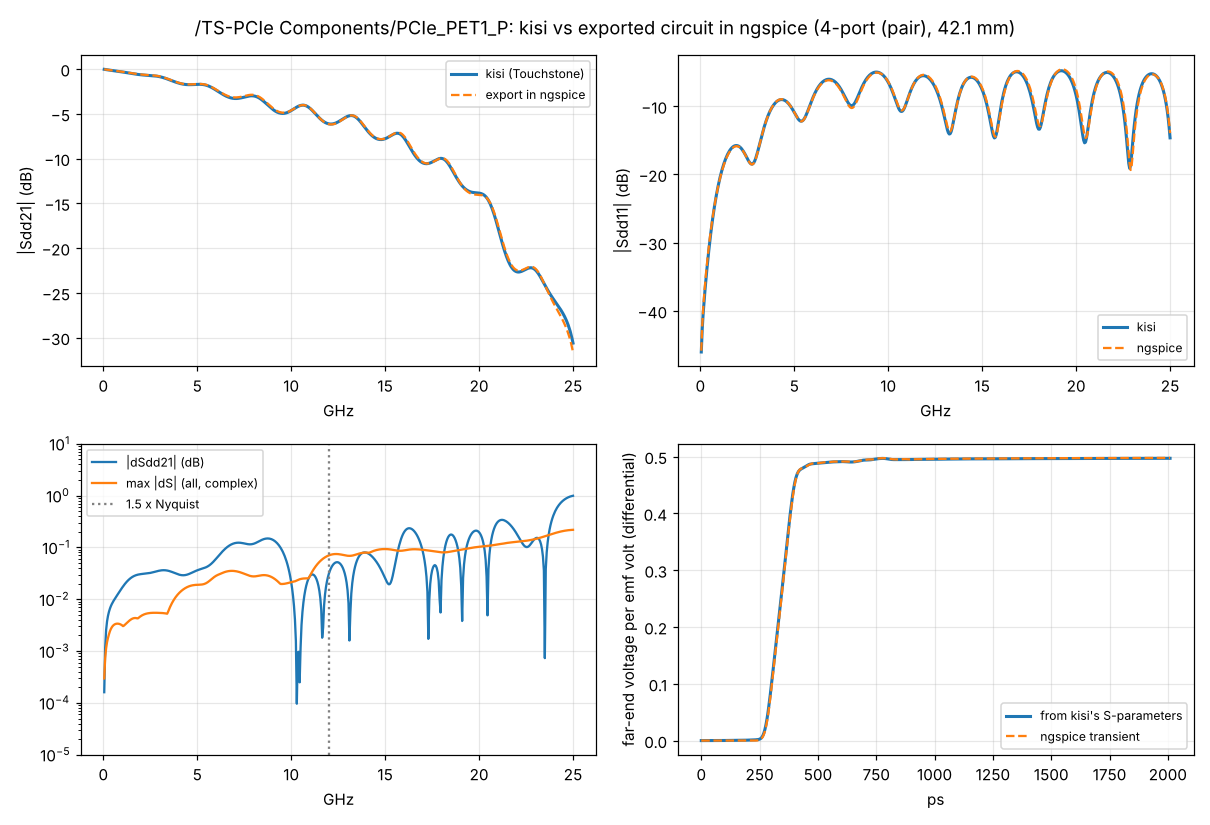
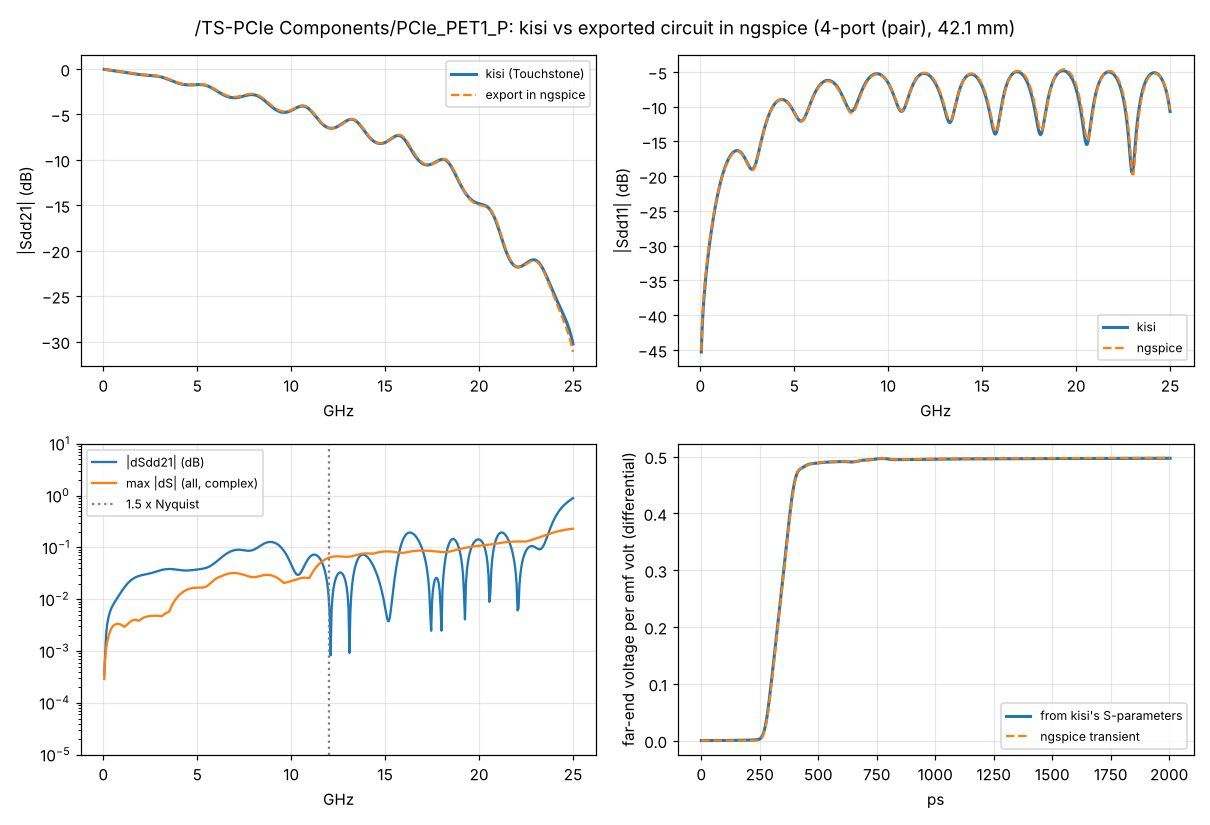
LTspice library: Rpar=1e30 on every inductor; comparison table refreshed
LTspice adds a series resistance (1 mOhm) and an implicit parallel
damping to inductors by default; the micro-tests on the maintainer's
LTspice showed the damping as the cause of the LVDS pair's 1 % lower
levels during the reflections (with Rpar=1e30 LTspice follows ngspice
within 0.16 mV). The LTspice library and the bench's inductors now carry
Rser=0 Rpar=1e30; ltspice.py check requires both; README, models and the
report say why. The micro-test decks save the traces their .meas lines
read (I(VTX_p) and the internal nodes) and drop the Rpar variants.

The comparison table and plots in the report are re-run on the merged
code (main's via-model changes): PCIe in-band |dS21| 0.10-0.34 dB,
max |dS| <= 0.064, steps within 1.9 %; every lane's Touchstone file and
the bus N-port are now passive.

diff --git a/validation/channel_export/ltspice_microtests.py b/validation/channel_export/ltspice_microtests.py
@@ -11,13 +11,10 @@ single step at 4 ns (P up, N down, the bench's emf and edge):
   3_viapair.cir      the ends and the lane's first via pair block
   4_line_p.cir       the ends and one line section on P (N joined ideally)
   5_lane.cir         the ends and the whole lane, with internal node voltages and the source currents
-  5b_lane_rpar.cir   as 5, with Rpar=1e30 on every inductor (LTspice only: shows whether LTspice's default
-                     inductor damping, added when no Rpar is given, is the difference)
-  5c_lane_trap.cir   as 5 with .options method=trap (LTspice's default integration is modified trapezoidal;
-                     ngspice uses trapezoidal)
-  5d_lane_rpar_trap.cir  both
-The pair's levels a few nanoseconds after an edge carry the reflections between the current-mode transmitter
-(5 kOhm, nearly open) and the receiver; extra damping in the simulator lowers them.
+  5c_lane_trap.cir   as 5 with .options method=trap (LTspice's default integration is modified trapezoidal,
+                     ngspice's trapezoidal)
+These decks found the 1 % offset of the LVDS pair in LTspice: LTspice's implicit parallel damping of inductors
+(now switched off with Rpar=1e30 in the LTspice library); the integration method made 0.2 mV.
 Each measures the received differential voltage V(vrx) before the step (the DC operating point, at 3 ns) and at
 4.5–20 ns, the transmitter's current, and in 5 a few internal nodes. ngspice runs the same decks (the shared
 library, the LTspice-only options left out, `xlane:n4` written `xlane.n4`); expected.json holds its values.
@@ -49,9 +46,6 @@ def main():
     lib_lt = open(os.path.join(src, f"{st}_ltspice.lib"), encoding="ascii").read()
     shutil.copy(os.path.join(src, f"{st}_ltspice.lib"), out)
     shutil.copy(os.path.join(src, f"{st}.lib"), out)
-    # the variant with Rpar=1e30 on every inductor
-    rpar = "\n".join(l + " Rpar=1e30" if l.startswith("L") else l for l in lib_lt.splitlines()) + "\n"
-    open(os.path.join(out, f"{st}_ltspice_rpar.lib"), "w").write(rpar)
     # the ends and the emf from the bench
     emf = abs(float(re.search(r"^VTX_p \S+ 0 PWL\(\S+ (\S+)", "\n".join(bench), re.M).group(1)))
     rise = float(re.search(r"edge (\S+) ps", "\n".join(bench)).group(1)) * 1e-12
@@ -72,17 +66,15 @@ def main():
         "3_viapair": [f"XB ap an bp bn 0 {vp}"],
         "4_line_p": [f"XB ap bp 0 {tl_p}", "VC_n an bn 0"],
         "5_lane": [lane],
-        "5b_lane_rpar": [lane],
         "5c_lane_trap": [lane],
-        "5d_lane_rpar_trap": [lane],
     }
     internal = ["n4", "n7", "n27", "n29"]
     results = {}
     for name, d in dut.items():
-        lib = f"{st}_ltspice_rpar.lib" if "rpar" in name else f"{st}_ltspice.lib"
+        lib = f"{st}_ltspice.lib"
         opts = ".options plotwinsize=0 numdgt=16 reject_number_tails" + (" method=trap" if "trap" in name else "")
         txt = [f"* kisi LTspice micro-test {name} of lane {st}: the bench's ends, {' '.join(x.split()[-1] for x in d if x.startswith('X')) or 'ideal connections'}",
-               f'.include "{lib}"'] + srcs + ends + d + ["Bvrx vrx 0 V=V(rxd_p)-V(rxd_n)", ".tran 1e-11 2e-8 0 1e-11", ".save V(vrx)", opts]
+               f'.include "{lib}"'] + srcs + ends + d + ["Bvrx vrx 0 V=V(rxd_p)-V(rxd_n)", ".tran 1e-11 2e-8 0 1e-11", ".save V(vrx) I(VTX_p)" + ("".join(f" V(xlane:{n})" for n in internal) + " V(rxd_p) V(rxd_n)" if name.startswith("5") else ""), opts]
         for k, t in TIMES:
             txt.append(f".meas TRAN v_{k} FIND V(vrx) AT={t:.6e}")
         txt += [f".meas TRAN i_tx_dc FIND I(VTX_p) AT={TIMES[0][1]:.6e}", f".meas TRAN i_tx_t20 FIND I(VTX_p) AT={TIMES[-1][1]:.6e}"]
@@ -93,8 +85,8 @@ def main():
             txt += [f".meas TRAN v_rxp_dc FIND V(rxd_p) AT={TIMES[0][1]:.6e}", f".meas TRAN v_rxn_dc FIND V(rxd_n) AT={TIMES[0][1]:.6e}"]
         txt.append(".end")
         open(os.path.join(out, f"{name}.cir"), "w").write("\n".join(txt) + "\n")
-        if name[1:2] in "bcd" and name[0] == "5":
-            continue  # LTspice-only variants; ngspice's values are those of 5
+        if name == "5c_lane_trap":
+            continue  # LTspice-only variant; ngspice's values are those of 5
         # ngspice: the shared library, no LTspice options, subcircuit paths with '.'
         ng = [l for l in txt if not l.startswith(".options")]
         ng = [l.replace(lib, f"{st}.lib") for l in ng]
@@ -108,11 +100,10 @@ def main():
         os.remove(p)
         print(name, "ok" if r.returncode == 0 else "FAILED", {k: v for k, v in results[name].items() if k in ("v_dc", "v_t20")})
     info = {"lane": st, "emf_v": emf, "edge_s": rise, "blocks": {"coupled": cpl, "viapair": vp, "line_p": tl_p},
-            "simulator": "ngspice 42 (the same decks with the shared library; for 5b-5d the values of 5: ngspice adds no inductor damping and integrates trapezoidally)",
+            "simulator": "ngspice 42 (the same decks with the shared library; for 5c the values of 5: ngspice integrates trapezoidally)",
             "units": "V and A; v_* the received differential voltage V(vrx), v_dc before the step (operating point), i_tx_* the current of VTX_p",
             "expected": results}
-    for k in ("5b_lane_rpar", "5c_lane_trap", "5d_lane_rpar_trap"):
-        results[k] = results.get("5_lane")
+    results["5c_lane_trap"] = results.get("5_lane")
     json.dump(info, open(os.path.join(out, "expected.json"), "w"), indent=1)
 
 

diff --git a/crates/kisi-si/src/export/files.rs b/crates/kisi-si/src/export/files.rs
@@ -238,7 +238,7 @@ pub fn bench(lc: &LaneCircuit, lib_file: &str, ends: &BenchEnds, d: Dialect) -> 
         let (mut r, die) = rx_end(k, pb, &ends.rx);
         if d == Dialect::Ltspice {
             for l in t.iter_mut().chain(r.iter_mut()).filter(|l| l.starts_with('L')) {
-                l.push_str(" Rser=0");
+                l.push_str(LT_L);
             }
         }
         s.push_str(&format!("* line {k}: transmitter\n{}\n* line {k}: receiver\n{}\n", t.join("\n"), r.join("\n")));
@@ -290,17 +290,20 @@ pub fn ltspice_meas(lc: &LaneCircuit, ends: &BenchEnds) -> Vec<(String, String)>
     v
 }
 
-/// The lane library for LTspice: the same circuit, with `Rser=0` on every inductor (LTspice gives an
-/// inductor 1 mΩ in series unless told otherwise; ngspice and Xyce do not accept the parameter) and
+/// What every inductor gets in LTspice: LTspice adds a series resistance (1 mΩ) and an implicit
+/// parallel damping to inductors by default; ngspice and Xyce reject these parameters.
+pub const LT_L: &str = " Rser=0 Rpar=1e30";
+
+/// The lane library for LTspice: the same circuit, with `Rser=0 Rpar=1e30` on every inductor and
 /// ASCII comments.
 pub fn ltspice_lib(lib: &str) -> String {
-    let mut s = String::with_capacity(lib.len() + lib.len() / 8);
-    s.push_str("* LTspice version of the lane library: the same circuit as the .lib next to it, with Rser=0 on every inductor\n* (LTspice would add 1 mOhm in series to each)\n");
+    let mut s = String::with_capacity(lib.len() + lib.len() / 6);
+    s.push_str("* LTspice version of the lane library: the same circuit as the .lib next to it, with Rser=0 Rpar=1e30 on every\n* inductor (LTspice adds a series resistance of 1 mOhm and an implicit parallel damping to inductors by default)\n");
     for l in lib.lines() {
         let l = ascii(l);
         s.push_str(&l);
         if l.starts_with('L') || l.starts_with('l') {
-            s.push_str(" Rser=0");
+            s.push_str(LT_L);
         }
         s.push('\n');
     }
@@ -562,7 +565,7 @@ pub fn readme(lc: &LaneCircuit, ends: &BenchEnds, f: Formats, board: &str, st: &
     if f.ltspice {
         s.push_str("\n## LTspice\n\n");
         s.push_str("Open `bench_ltspice.cir` in LTspice (File → Open, files of type netlist) and run it. It is the transient bench of the other simulators – the same PRBS7 PWL source, the profile's linear ends, the lane subcircuit – with the received voltage as node `vrx` (a pair: V(P) − V(N), a B source) and `.meas` lines whose results LTspice writes to the `.log` file (View → SPICE Error Log): the first rising zero crossing `t50`, the voltage at eight bit centres of the second pattern period and its extremes there. `.options plotwinsize=0 numdgt=16 reject_number_tails` keeps the waveform uncompressed and in double precision in the `.raw` file and makes LTspice report a number with stray letters instead of ignoring them; every value is written in e-notation (in LTspice `1M` would be milli).\n\n");
-        s.push_str(&format!("* `{st}_ltspice.lib` is `{st}.lib` with `Rser=0` on every inductor: LTspice gives an inductor 1 mΩ in series unless told otherwise, which adds up over thousands of ladder inductors, and ngspice and Xyce do not accept the parameter. Otherwise the two files are the same circuit (`validation/channel_export/ltspice.py check` in the kisi repository verifies it).\n"));
+        s.push_str(&format!("* `{st}_ltspice.lib` is `{st}.lib` with `Rser=0 Rpar=1e30` on every inductor: LTspice adds a series resistance (1 mΩ) and an implicit parallel damping to inductors by default; the LTspice library sets Rser=0 and Rpar=1e30 so that it matches ngspice and Xyce, which do not accept these parameters. Otherwise the two files are the same circuit (`validation/channel_export/ltspice.py check` in the kisi repository verifies it).\n"));
         if n == 2 {
             s.push_str("* `sparam_ltspice.cir`: S-parameters with LTspice's `.net` analysis (the source's `Rser` and `Rout` are the port impedances); plot `S21(Vin)` and `S11(Vin)`.\n");
         } else {

diff --git a/validation/channel_export/ltspice.py b/validation/channel_export/ltspice.py
@@ -6,9 +6,10 @@ Usage: ltspice.py check <lane folder>
 
 check (also from compare.py, so in CI): the LTspice bench and library are ASCII, have no ngspice or Xyce constructs
 (`.control`, `wrdata`, `portnum`, `.lin`, `.print`), every subcircuit instance names a subcircuit that exists with
-as many ports as nodes given, every inductor has `Rser=0` (LTspice adds 1 mOhm otherwise) and no other element has
+as many ports as nodes given, every inductor has `Rser=0 Rpar=1e30` (LTspice adds 1 mOhm in series and an implicit parallel
+damping otherwise) and no other element has
 an LTspice parameter, the `.tran`, `.meas`, `B` and `.net` lines are well formed, and `<lane>_ltspice.lib` is
-`<lane>.lib` except for `Rser=0` and ASCII comments; and no node of the flattened lane subcircuit is without a DC
+`<lane>.lib` except for `Rser=0 Rpar=1e30` and ASCII comments; and no node of the flattened lane subcircuit is without a DC
 path to ground (LTspice reports such nodes as floating and its results drift).
 
 expected: runs bench_ltspice.cir in ngspice (with `<lane>.lib` instead of the LTspice library – the same circuit;
@@ -99,8 +100,8 @@ def check(d):
         elif k[0] == "x":
             insts.append((f, t[0], len(t) - 2, t[-1].lower()))
         elif k[0] == "l":
-            if not (len(t) == 5 and t[4] == "Rser=0" and re.fullmatch(NUM, t[3], re.I)):
-                errs.append(f"{f}: inductor without Rser=0: {l[:60]}")
+            if not (len(t) == 6 and t[4] == "Rser=0" and t[5] == "Rpar=1e30" and re.fullmatch(NUM, t[3], re.I)):
+                errs.append(f"{f}: inductor without Rser=0 Rpar=1e30: {l[:60]}")
         elif k[0] in "rc" and len(t) != 4:
             errs.append(f"{f}: unexpected parameters: {l[:60]}")
         elif k == ".tran" and not (len(t) == 5 and all(re.fullmatch(NUM, x, re.I) for x in t[1:])):
@@ -128,9 +129,9 @@ def check(d):
     lib = os.path.join(d, f"{st}.lib")
     if os.path.exists(lib):
         a = [l for l in open(lib, encoding="utf-8").read().splitlines() if not l.startswith("*")]
-        b = [l.replace(" Rser=0", "") for l in open(os.path.join(d, f"{st}_ltspice.lib"), encoding="ascii").read().splitlines() if not l.startswith("*")]
+        b = [l.replace(" Rser=0 Rpar=1e30", "") for l in open(os.path.join(d, f"{st}_ltspice.lib"), encoding="ascii").read().splitlines() if not l.startswith("*")]
         if a != b:
-            errs.append(f"{st}_ltspice.lib differs from {st}.lib by more than Rser=0")
+            errs.append(f"{st}_ltspice.lib differs from {st}.lib by more than Rser=0 Rpar=1e30")
     try:
         fl = floating_nodes(d)
     except (StopIteration, KeyError) as e:
@@ -200,7 +201,7 @@ def expected(d):
     src = src.replace(f'.include "{st}_ltspice.lib"', f'.include "{st}.lib"')
     # LTspice-only options out (ngspice does not know them)
     src = "\n".join(l for l in src.splitlines() if not l.startswith(".options")) + "\n"
-    src = re.sub(r"( Rser=0)", "", src)
+    src = src.replace(" Rser=0 Rpar=1e30", "")
     open(os.path.join(d, "bench_ltspice_in_ngspice.cir"), "w").write(src)
     t0 = time.time()
     r = subprocess.run(["ngspice", "-b", "bench_ltspice_in_ngspice.cir"], cwd=d, capture_output=True, text=True, timeout=7200)

diff --git a/crates/kisi-si/src/export/tests.rs b/crates/kisi-si/src/export/tests.rs
@@ -168,10 +168,10 @@ fn ltspice_files() {
         let get = |p: &str| fs.iter().find(|f| f.path == p).map(|f| f.content.clone());
         let (lib, llib, bench) = (get(&format!("{name}.lib")).unwrap(), get(&format!("{name}_ltspice.lib")).unwrap(), get("bench_ltspice.cir").unwrap());
         assert!(llib.is_ascii() && bench.is_ascii());
-        let strip = |t: &str| t.lines().filter(|l| !l.starts_with('*')).map(|l| l.replace(" Rser=0", "")).collect::<Vec<_>>();
+        let strip = |t: &str| t.lines().filter(|l| !l.starts_with('*')).map(|l| l.replace(" Rser=0 Rpar=1e30", "")).collect::<Vec<_>>();
         assert_eq!(strip(&lib), strip(&llib), "{name}: the LTspice library is the shared one");
         for l in llib.lines().chain(bench.lines()).filter(|l| l.starts_with('L')) {
-            assert!(l.ends_with(" Rser=0"), "{name}: {l}");
+            assert!(l.ends_with(" Rser=0 Rpar=1e30"), "{name}: {l}");
         }
         assert!(!bench.contains(".control") && !bench.contains("wrdata") && bench.contains(".meas TRAN t50 WHEN V(vrx)=0 RISE=1") && bench.contains("Bvrx vrx 0 V="));
         assert_eq!(get("sparam_ltspice.cir").is_some(), lc.ports.len() == 2, "{name}: .net only for a 2-port");

diff --git a/docs/research/channel-export.md b/docs/research/channel-export.md
@@ -15,20 +15,20 @@ step 3 (compact, vector-fitted models) as a design study at the end. Background 
   bus subcircuit gives the same lane response as the lane alone. The KiCad project shows the lane element by element
   (lines, coupled runs, vias, parts, pads, stubs); `kicad-cli`'s netlist of it is the lane subcircuit node for node,
   and its AC response in ngspice equals the bench's to 1e-8.
-- **Circuit vs kisi's S-parameters:** up to 1.5 × Nyquist |ΔS21| ≤ 0.025 dB on the LVDS lanes and 0.15–0.42 dB on
+- **Circuit vs kisi's S-parameters:** up to 1.5 × Nyquist |ΔS21| ≤ 0.025 dB on the LVDS lanes and 0.10–0.34 dB on
   the strongly reflecting PCIe lanes (|Sdd11| up to −5 dB: the ripples shift with small phase errors); the largest
-  complex difference of any S-parameter ≤ 0.07 in that band (0.3–0.5 up to 25 GHz, mostly above 15 GHz). Step
-  responses (100 ps edge, every port terminated) agree within 1.8 % of the step, the 50 % delay within 1.4–2.3 ps
+  complex difference of any S-parameter ≤ 0.064 in that band (0.13–0.54 up to 25 GHz, mostly above 15 GHz). Step
+  responses (100 ps edge, every port terminated) agree within 1.9 % of the step, the 50 % delay within 1.4–2.3 ps
   (0.3–0.8 %).
 - **Why not exact:** parts of kisi's model are not passive or not causal – the Huray roughness adds resistance
   without its internal inductance, the via models use a constant loss tangent and a barrel resistance without
   internal inductance, microstrip dispersion makes the capacitance rise with frequency, and the plane-pair spans of
-  via pairs have a negative resistance from a few GHz (on ThunderScope's PCIe reference clock lane kisi's 4-port is
-  not passive above 22 GHz, largest singular value 1.005). A circuit of positive R, L, C cannot follow those
+  via pairs have a negative resistance from a few GHz (before main's via-model changes of October 2026 this made
+  ThunderScope's PCIe reference clock lane non-passive above 22 GHz; now every lane's 4-port is passive). A circuit of positive R, L, C cannot follow those
   exactly; the export is passive and causal by construction and follows the loss closely and the reactance (the
   delay) more closely still. Above about 15 GHz the via-pair spans dominate the difference.
 - **Sizes:** 12–25 k elements per PCIe lane, 42 k for the 85 mm LVDS pair; ngspice (one core, shared machine):
-  S-parameters (500 points) in 1–66 s, a step response in 2–133 s, the PRBS7 bench (two periods) in 75–340 s.
+  S-parameters (500 points) in 2–73 s, a step response in 3–89 s, the PRBS7 bench (two periods) in 100–400 s.
 - **Not included (open points):** IBIS (KIBIS) ends, the channel behind a connector, crosstalk between lanes (the
   bus N-port is block-diagonal), Xyce and Qucs-S runs (not available here), a compact model for long transients.
 
@@ -57,7 +57,7 @@ Per lane (`<lane>/` in a bus export):
 | `<lane>.lib` | the lane as subcircuit `<lane>_lane a b ref` (pairs: `ap an bp bn ref`; transmitter end = a, receiver end = b); one subcircuit per line section, via, part and stub, the ladders as repeated section subcircuits. Header: ports, model, the check against kisi, element counts |
 | `bench_ngspice.cir`, `bench_xyce.cir` | transient test bench: PRBS7 (two periods) at the profile's bit rate and edge, the profile's linear transmitter (emf → R → C at the die → L → pin) and receiver (pin → L → C ∥ R at the die) per line, scaled so that the receiver sees ±swing at DC; ngspice writes the receiver voltage with `wrdata`, Xyce with `.print tran format=csv` |
 | `sparam_ngspice.cir`, `sparam_xyce.cir` | S-parameters on kisi's grid: ngspice `.sp` with `portnum` sources, Xyce `.ac` + `.lin` with port devices (Touchstone 2 output) |
-| `bench_ltspice.cir`, `<lane>_ltspice.lib`, `sparam_ltspice.cir` | LTspice (section 2b): the same bench with the received voltage as node `vrx` and `.meas` lines; the library with `Rser=0` on every inductor; `.net` S-parameters for a single-ended lane |
+| `bench_ltspice.cir`, `<lane>_ltspice.lib`, `sparam_ltspice.cir` | LTspice (section 2b): the same bench with the received voltage as node `vrx` and `.meas` lines; the library with `Rser=0 Rpar=1e30` on every inductor; `.net` S-parameters for a single-ended lane |
 | `<lane>.s2p` / `.s4p` | kisi's S-parameters of the same channel (Touchstone 1.0, RI), ports as above, the port list in the header |
 | `<lane>.kicad_pro`, `.kicad_sch`, `<lane>_kicad.lib` | KiCad project (section 2a): one symbol per element of the lane subcircuit (or, with `--kicad-style compact`, the lane as one symbol), the PRBS7 sources as subcircuits, the ends as R, L, C symbols whose models KiCad infers from reference and value, ground and a power flag, a `.tran` directive, notes on what the ends stand for. KiCad 7 format (20230121) with kisi's own symbols embedded, so it opens without libraries. `<lane>_kicad.lib` includes `<lane>.lib` and holds the small wrapper subcircuits the symbols call: KiCad reads the models from the file a symbol names, and a short file loads at once |
 | `README.md` | ports, files, bench ends, model, the check, what is not included, kisi's notes on the lane |
@@ -115,9 +115,11 @@ lines – the first rising zero crossing `t50`, the voltage at eight bit centres
 maximum and minimum there – which LTspice writes to its `.log`. Every value is in e-notation (in LTspice `1M` is
 milli), the include path is relative, the files are ASCII.
 
-- **The library:** LTspice gives every inductor 1 mΩ in series unless `Rser=0` is written; over the ~9000 ladder
-  inductors of an 85 mm pair that is several ohms. ngspice and Xyce reject `Rser=` on an inductor, so the export
-  writes `<lane>_ltspice.lib`: `<lane>.lib` with `Rser=0` on each inductor and ASCII comments, otherwise identical.
+- **The library:** LTspice adds a series resistance (1 mΩ) and an implicit parallel damping to inductors by
+  default; the LTspice library sets `Rser=0` and `Rpar=1e30` so that it matches ngspice and Xyce. (1 mΩ over the
+  ~9000 ladder inductors of an 85 mm pair is several ohms; the damping lowered the LVDS pair's levels during the
+  reflections by 1 %.) ngspice and Xyce reject both parameters, so the export writes `<lane>_ltspice.lib`:
+  `<lane>.lib` with `Rser=0 Rpar=1e30` on each inductor and ASCII comments, otherwise identical.
   Everything else in the library – E, F and 0 V sources, subcircuits, `+` continuation lines – is common to all three
   simulators; there are no subcircuit parameters in it.
 - **S-parameters:** for a single-ended lane `sparam_ltspice.cir` uses LTspice's two-port `.net I(Rout) Vin` with the
@@ -125,9 +127,9 @@ milli), the include path is relative, the files are ASCII.
   analysis; for pairs and buses the Touchstone files are the path (the README says so).
 - **Checked without LTspice** (`validation/channel_export/ltspice.py check`, in `compare.py` and so in CI): ASCII, no
   `.control`/`wrdata`/`portnum`/`.lin`/`.print`, every subcircuit instance names a defined subcircuit with as many
-  ports as nodes, no node of the flattened lane without a DC path to ground, `Rser=0` on every inductor and no other element parameter, values in e-notation, no node names
+  ports as nodes, no node of the flattened lane without a DC path to ground, `Rser=0 Rpar=1e30` on every inductor and no other element parameter, values in e-notation, no node names
   that differ only in case, well-formed `.tran`, `.meas`, `B` and `.net` lines, and the LTspice library equal to the
-  shared one apart from `Rser=0`. `ltspice.py expected` runs the same bench in ngspice (the `.meas` syntax is common;
+  shared one apart from `Rser=0 Rpar=1e30`. `ltspice.py expected` runs the same bench in ngspice (the `.meas` syntax is common;
   the shared library instead of the LTspice one, the LTspice-only options left out) and writes `expected.json` with
   the measurements, the run time, the element counts and – single-ended – S11/S21 at a few frequencies. LTspice
   itself runs on the maintainer's PC (LTspice 26.1.1, Windows): for REFINOUT2 `.net` gives ngspice's S11/S21 at all
@@ -135,10 +137,12 @@ milli), the include path is relative, the files are ASCII.
   ngspice's 104 s). The pair SYNC_OUT_P showed the floating converter nodes above (levels 1.1 % low, t50 to 0.1 ps);
   its export with the dual far-end converter removed the floating nodes but not the 1 % offset of the levels a few
   nanoseconds after an edge (where the reflections between the nearly open current-mode transmitter and the
-  receiver add up). `validation/channel_export/ltspice_microtests.py` writes short decks to find the cause – the
-  ends alone, one coupled block, one via pair, one line section, the whole lane with internal nodes, and the lane
-  with `Rpar=1e30` on the inductors and/or `.options method=trap` (LTspice damps inductors without `Rpar` and
-  integrates with modified trapezoidal by default) – with ngspice's values.
+  receiver add up). `validation/channel_export/ltspice_microtests.py` writes short decks to find such causes – the
+  ends alone, one coupled block, one via pair, one line section, the whole lane with internal nodes, the lane with
+  `.options method=trap` – with ngspice's values. With them the maintainer found it: LTspice's implicit parallel
+  damping of inductors. With `Rpar=1e30` on every inductor LTspice follows ngspice within 0.16 mV during the
+  reflections (default damping: up to 2.3 mV, 1 %); the integration method makes 0.2 mV. The export now writes
+  `Rpar=1e30` with `Rser=0`.
 - **Run time** (ngspice 42, one core of a shared machine, SYNC_OUT_P, 85 mm LVDS pair, two PRBS7 periods,
   257 ns at 30 ps steps): the ladder's top frequency sets the number of sections, and the run time follows the
   element count roughly linearly:
@@ -194,24 +198,24 @@ to the receiver act as the receiver's termination (bench and Touchstone leave th
   written) and compared with kisi's cascade of the same build (`check_against_kisi`); ngspice must give the same.
 
 ## 4. Verification
-`validation/channel_export/compare.py` runs `kisi export`, then ngspice on the S-parameter deck and on a step
+Numbers of 25 October 2026, after the merge of main's via-model changes (Block 2). `validation/channel_export/compare.py` runs `kisi export`, then ngspice on the S-parameter deck and on a step
 response (100 ps edge, every port in its reference), and compares with kisi's Touchstone file and with the step
 response computed from it; scikit-rf reads every Touchstone file (passivity, reciprocity). ngspice 42, scikit-rf
 2.2.0, kicad-cli 7.0.11; ThunderScope Rev5.3 with `web/samples/ts.kisi.json`, formula impedances (native CLI).
 
 | Lane | model | mm | elements R/L/C/sources | ngspice vs kisi up to 1.5×Nyquist: \|ΔS21\| dB, max \|ΔS\| | up to 25 GHz: \|ΔS21\| dB, max \|ΔS\| | kisi's evaluation: max \|ΔS\| | step: max diff, t50 ngspice / kisi (ps) | ngspice s (S-par. / step) |
 |---|---|---|---|---|---|---|---|---|
-| SYNC_OUT_P | pair | 85.4 | 20745/9091/11762/200 | 0.016, 0.008 | 10.73, 0.293 | 0.293 | 1.8 %, 576.6 / 574.3 | 5 / 8 |
-| REFINOUT2 | single | 70.2 | 5573/2745/3101/0 | 0.024, 0.005 | 1.18, 0.136 | 0.136 | 1.7 %, 404.3 / 402.5 | 1 / 2 |
-| PCIe_PER0_P | pair | 34.7 | 6092/3066/3535/170 | 0.424, 0.069 | 1.43, 0.157 | 0.157 | 1.4 %, 207.4 / 205.9 | 25 / 42 |
-| PCIe_PER1_P | pair | 32.9 | 6096/3104/3516/170 | 0.383, 0.056 | 2.08, 0.179 | 0.179 | 1.5 %, 196.4 / 194.6 | 66 / 133 |
-| PCIe_PER2_P | pair | 31.1 | 5815/2934/3367/170 | 0.242, 0.049 | 2.33, 0.171 | 0.171 | 1.3 %, 188.6 / 187.0 | 56 / 54 |
-| PCIe_PER3_P | pair | 30.5 | 5687/2804/3360/210 | 0.401, 0.068 | 2.08, 0.140 | 0.140 | 1.3 %, 183.0 / 181.4 | 32 / 36 |
-| PCIe_PET0_P | pair | 59.7 | 12521/5804/7275/190 | 0.155, 0.064 | 2.80, 0.182 | 0.182 | 1.5 %, 382.3 / 380.4 | 17 / 30 |
-| PCIe_PET1_P | pair | 42.1 | 8399/4013/4930/150 | 0.149, 0.070 | 0.99, 0.219 | 0.219 | 1.3 %, 270.4 / 269.0 | 17 / 16 |
-| PCIe_PET2_P | pair | 45.1 | 9239/4504/5268/70 | 0.178, 0.053 | 1.24, 0.485 | 0.485 | 1.5 %, 302.4 / 300.5 | 17 / 39 |
-| PCIe_PET3_P | pair | 39.1 | 8145/3929/4728/150 | 0.157, 0.067 | 1.62, 0.244 | 0.244 | 1.5 %, 261.5 / 259.8 | 19 / 27 |
-| PCIe_REFCLK_P | pair | 37.6 | 7705/3594/4511/170 | 0.003, 0.001 | 26.60, 0.305 | 0.305 | 1.3 %, 252.3 / 250.7 | 12 / 14 |
+| SYNC_OUT_P | pair | 85.4 | 20763/9109/11762/200 | 0.016, 0.008 | 10.26, 0.242 | 0.242 | 1.9 %, 572.4 / 570.1 | 16 / 26 |
+| REFINOUT2 | single | 70.2 | 5582/2754/3094/0 | 0.024, 0.005 | 2.82, 0.295 | 0.295 | 1.7 %, 403.5 / 401.7 | 2 / 3 |
+| PCIe_PER0_P | pair | 34.7 | 6122/3096/3537/170 | 0.309, 0.064 | 1.52, 0.168 | 0.168 | 1.4 %, 205.3 / 203.7 | 56 / 68 |
+| PCIe_PER1_P | pair | 32.9 | 6112/3120/3515/170 | 0.321, 0.048 | 1.24, 0.129 | 0.129 | 1.5 %, 195.0 / 193.2 | 73 / 89 |
+| PCIe_PER2_P | pair | 31.1 | 5831/2950/3366/170 | 0.206, 0.045 | 2.44, 0.181 | 0.181 | 1.3 %, 188.0 / 186.3 | 50 / 82 |
+| PCIe_PER3_P | pair | 30.5 | 5702/2819/3359/210 | 0.343, 0.061 | 0.99, 0.147 | 0.147 | 1.3 %, 181.5 / 180.0 | 38 / 61 |
+| PCIe_PET0_P | pair | 59.7 | 12571/5854/7281/190 | 0.100, 0.059 | 3.34, 0.164 | 0.164 | 1.5 %, 377.2 / 375.5 | 35 / 47 |
+| PCIe_PET1_P | pair | 42.1 | 8423/4037/4925/150 | 0.128, 0.063 | 0.89, 0.230 | 0.230 | 1.2 %, 267.8 / 266.4 | 15 / 28 |
+| PCIe_PET2_P | pair | 45.1 | 9264/4529/5271/70 | 0.165, 0.051 | 1.37, 0.535 | 0.535 | 1.5 %, 300.8 / 299.0 | 14 / 25 |
+| PCIe_PET3_P | pair | 39.1 | 8172/3956/4728/150 | 0.141, 0.063 | 1.73, 0.246 | 0.246 | 1.4 %, 258.9 / 257.2 | 23 / 36 |
+| PCIe_REFCLK_P | pair | 37.6 | 7747/3636/4515/170 | 0.003, 0.001 | 33.79, 0.329 | 0.329 | 1.3 %, 247.6 / 246.0 | 15 / 20 |
 
 LVDS lanes (profile lvds, 1.5 × Nyquist = 0.75 GHz) and the PCIe lanes (pcie4, 16 GT/s, 1.5 × Nyquist = 12 GHz), single-ended references 50 Ω (LVDS) and 42.5 Ω (PCIe) per port. Fits of the main line sections: R 7–8 %, X 0.7–0.9 %, G 0.7–3.2 %, B ≤ 0.3 % (worst over all sections, short ones included: G 5 %, B 0.9 %; a microstrip piece over a distant plane on the PCIe receive lanes: G 96 %, B 19 %, a few tenths of a millimetre).
 
@@ -224,7 +228,7 @@ Plots (|S21|/|Sdd21|, |S11|/|Sdd11|, the differences, the step responses):
   is the same to three digits in ngspice and in kisi's own evaluation – the netlist text is the circuit.
 - **Bus:** the N-port's blocks equal the lanes' Touchstone files (difference 0); the bus subcircuit in ngspice with
   one lane's four ports driven and all other ports terminated gives that lane's response (same difference to kisi
-  as the lane alone). For the PCIe bus (9 lanes, 36 ports) the bus subcircuit's S-parameter run took 9–11 minutes in ngspice (4 ports driven, 32 terminated, 500 points).
+  as the lane alone). For the PCIe bus (9 lanes, 36 ports) the bus subcircuit's S-parameter run took 9–12 minutes in ngspice (4 ports driven, 32 terminated, 500 points).
 - **Transient:** the PRBS7 benches run in ngspice (about 100 s per lane on one core).
 - **KiCad** (`--kicad`, `kicad_sheet.py`): every lane's sheet passes the wiring check (visible pins, no open pin or
   dangling wire, junctions, grid); kicad-cli's netlist equals the lane subcircuit node for node, and its AC response
@@ -237,8 +241,8 @@ Plots (|S21|/|Sdd21|, |S11|/|Sdd11|, the differences, the step responses):
   `docs/img/channel-export/kicad_*.png` (kicad-cli 7) and the CI artifact `kicad-sheets` (kicad-cli 9). Transients of
   the KiCad netlist and the bench differ by about 1e-4 of the swing: ngspice's time steps depend on the element order.
   Not tested: the simulator dialog of the KiCad GUI.
-- **scikit-rf** reads every file (2-, 4- and 36-port). The lanes' Touchstone files are passive and reciprocal
-  except the PCIe reference clock lane (kisi's model, see the summary); the bus N-port inherits that.
+- **scikit-rf** reads every file (2-, 4- and 36-port). The lanes' Touchstone files and the bus N-port are passive
+  (largest singular value 0.9993) and reciprocal.
 - **Not run here:** Xyce (no package), Qucs-S/Qucsator, PyBERT – the decks follow the Xyce reference guide
   (`.lin sparcalc=1`, port devices `P`, `.print tran format=csv`) but are untested.
 

diff --git a/docs/models.md b/docs/models.md
@@ -113,8 +113,9 @@ models it – for circuit and RF simulators:
   open stubs; a pair with both lines and its coupled sections as even/odd chains between ideal mode converters.
 - **Test benches** for ngspice, Xyce and LTspice (PRBS7 between the profile's linear transmitter and receiver, the
   LTspice one with `.meas` results) and S-parameter decks; the netlist is shared, only the decks differ (the
-  simulators call analyses differently; for LTspice the library carries `Rser=0` on every inductor, which LTspice
-  otherwise sets to 1 mΩ).
+  simulators call analyses differently; LTspice adds a series resistance (1 mΩ) and an implicit parallel damping
+  to inductors by default, so the LTspice library sets `Rser=0 Rpar=1e30` on every inductor to match ngspice and
+  Xyce).
 - **Touchstone** per lane (`.s2p`, `.s4p`) and a bus as one N-port with its port map.
 - **Frequency range:** the ladders have 20 sections per wavelength at the top frequency (default 25 GHz; `--fmax`, or
   5 × Nyquist of the profile), which also ends the Touchstone grid. A lower top frequency shortens transients only
@@ -159,7 +160,7 @@ kisi marks these as estimates in the viewer and in the CLI output:
   with convection within 0.13 %, energy balance) and, with the datasheets' θJB/θJC on a model of the JEDEC
   JESD51-7 board, against their θJA (QFN-16 +4 %, SOIC-8 −15 %, SOT-23-5 −20 %).
 - **Channel export:** ngspice reproduces kisi's own evaluation of the exported circuit (ThunderScope's LVDS lanes and
-  nine PCIe lanes, to 0.001) and kisi's S-parameters within 0.03 dB (LVDS) and 0.15–0.42 dB (PCIe, strongly
+  nine PCIe lanes, to 0.001) and kisi's S-parameters within 0.03 dB (LVDS) and 0.10–0.34 dB (PCIe, strongly
   reflecting) up to 1.5 × Nyquist; step responses within 2 % (`validation/channel_export/compare.py`, also in CI).
 - **Still open:** validation against other solvers and against measurements. A measured test board is planned
   ([validation/test_board.md](../validation/test_board.md)). Until then, treat the numbers as plausible estimates,
